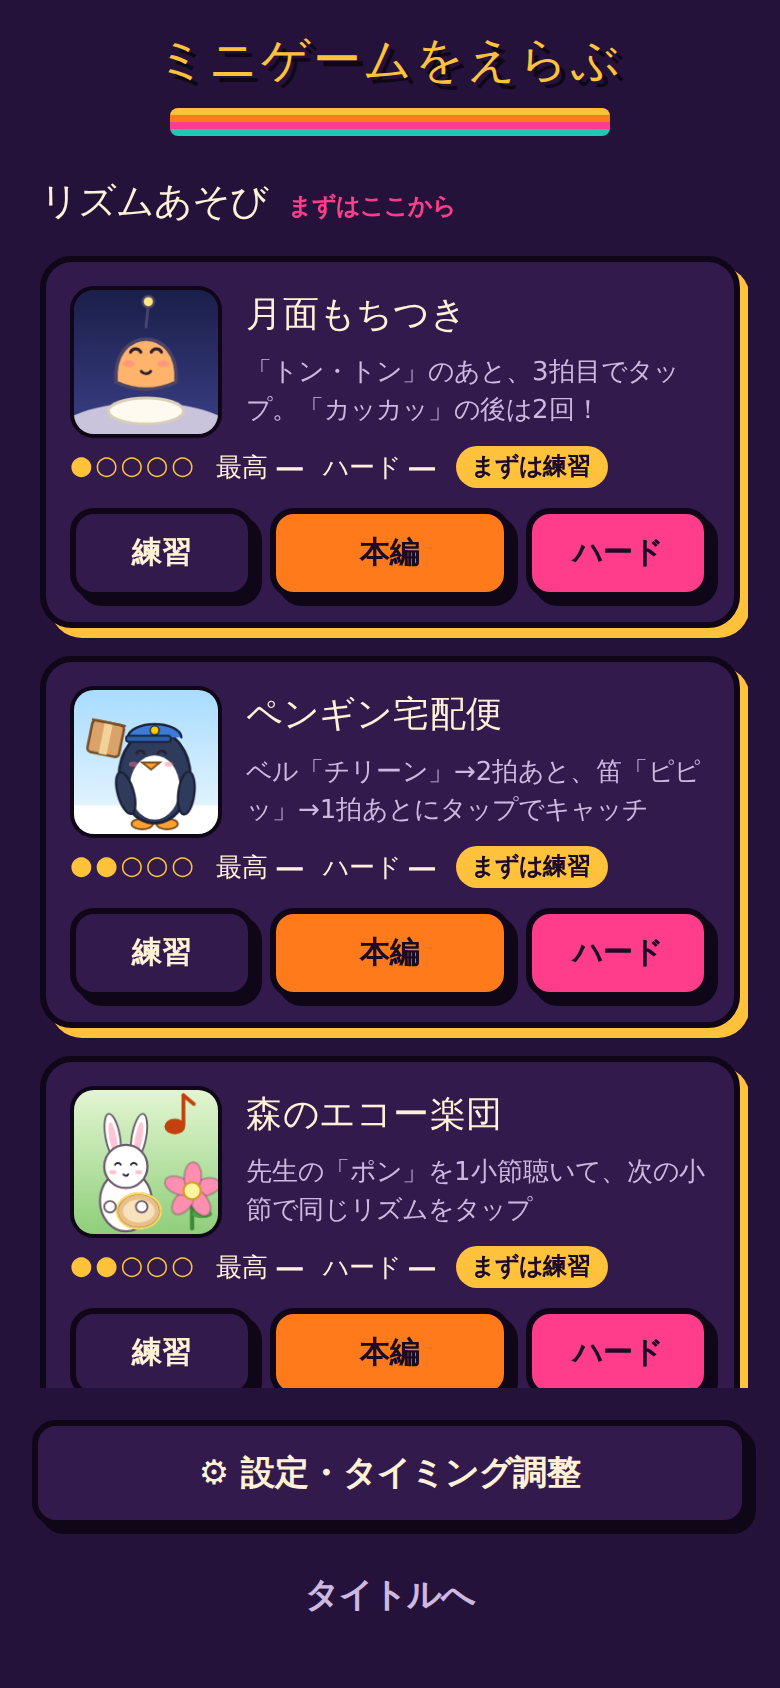
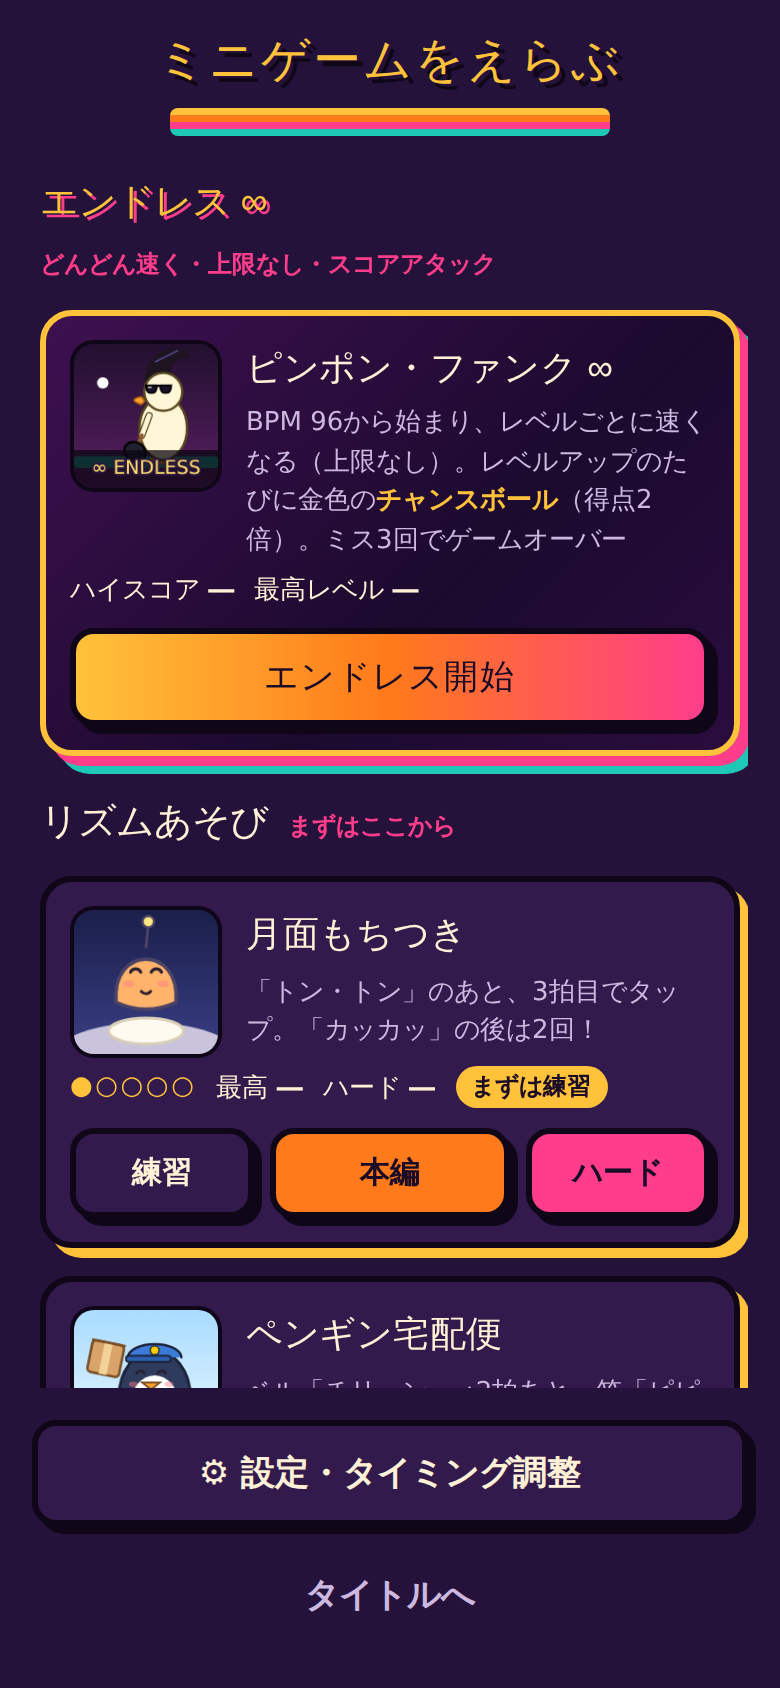
エンドレスのテスト結果・画面・音量測定を記録（155項目合格）
Claude-Session: https://claude.ai/code/session_014SXjRgvfQsSou3e7C8eesR

diff --git a/rhythm-game/docs/TESTING.md b/rhythm-game/docs/TESTING.md
@@ -2,7 +2,7 @@
 
 ## 自動テスト（`tests/run-tests.cjs`）
 - 実行環境：Chromium（Playwright のヘッドレス版）、Linux。端末は 390×844 のタッチ対応として再現
-- 結果：**146項目すべて合格**（15ミニゲーム × 本編・ハード・練習。詳細：`test-results.json`、`test-log.txt`）
+- 結果：**155項目すべて合格**（15ミニゲーム × 本編・ハード・練習、エンドレス9項目。詳細：`test-results.json`、`test-log.txt`）
 
 | 確認内容 | 結果 |
 |---|---|
@@ -21,8 +21,13 @@
 | メニューBGM（`tests/menu-music.cjs`）：タイトル（許可前）は無音、選択・設定で流れる、画面を行き来しても1つだけ、プレイ中は止まり、戻ると再開 | 合格 |
 | 声の合図：母音の頭が拍ちょうどになる時刻に予約されている | 合格 |
 | 再読み込み後も補正値と最高スコアが残る | 合格 |
+| エンドレス：Lv1〜3をぴったり、Lv4から入力なし → テンポ 96→108 BPM、チャンスボール 2/3、得点が計算式と一致（チャンスは2倍）、ミス3回でゲームオーバー（チャンスの見送りはライフ減なし）、Lv4到達 | 合格 |
+| エンドレス：テンポが変わっても予約遅れ0件・時計の誤差 3.6ms | 合格 |
+| エンドレス：ハイスコア・最高レベルの保存、「もう一度」でエンドレスを再開 | 合格 |
+| エンドレス：レベル25（BPM 240）まで譜面の検証OK、全パターン（X1・X2・チャンス・レベルアップ含む）が登場 | 合格 |
 
 ### 途中で見つけて直したこと
+- **エンドレスで合図がBGMに埋もれた**：スマッシュ「パシッ」の最小が +0.5dB、ピーク 1.08 でした。エンドレスでは合図の拍のキック・スネアを常に抜くようにしました。いまは pong +10.7／smash +8.0／lob +14.9／chance +15.3dB 以上、ピーク 0.94 です。
 - **DJのビルドアップで音が大きくなりすぎた**：ライザー・スネア連打・「ワン！」が重なってピーク1.11でした。ライザーとスネアを下げ、「スリー」とぶつかっていたキックを抜きました（ピーク1.04。最後の数％は最終段のソフトクリップで処理）。
 - 花火の打ち上げ玉が小さくて見えにくかったので、光る頭と長い尾を付け、開く直前に輪が光るようにしました。
 - **射的の合図が祭り太鼓に埋もれていた**：カン「カンッ」が +2.7dB、風船「プ」の最小が −3.6dB でした。合図の拍で抜く打楽器に太鼓・鉦・タンバリンを加え、合図を上げました。いまはそれぞれ +11.5dB と +5.6dB 以上です。
@@ -53,6 +58,7 @@
 | フロア爆上げDJ | 1.041 | call（シンセの呼びかけ）14.9／13.5。ビルドアップは小さく始まって大きくなる音なので測定対象外 |
 | しめの一音ピアノ | 0.860 | note（ピアノの音階）21.3／12.9 |
 | 夜空の花火師 | 0.782 | launch（ヒュ〜）11.9／11.1 |
+| ピンポン・ファンク ∞（エンドレス Lv1〜5） | 0.942 | pong 12.0／10.7、smash 15.4／8.0、lob 15.9／14.9、chance 16.1／15.3、pok 13.2／3.4 |
 | パイ投げ道場 | 0.883 | throw 11.5／11.1、quick 9.6／7.8、triple 10.5／10.3、boomerang 12.3／12.0 |
 
 ピークが1.0をわずかに超える瞬間（卓球のセクション頭）は、最終段のソフトクリップ（0.8を超えた分だけをなめらかに抑える）で処理しています。台の「ポッ」の最小値（−2.5dB）は、スマッシュ直後の1か所です。打つタイミングは「パシッ」で分かります。
@@ -60,7 +66,7 @@
 
 ## 画面（`tests/screens.cjs`）
 `screen_*.png`（ゲームの場面）、`ui_*.png`（メニュー類）、`size_*.png`（360×640／844×390 横向き／1280×720）。
-`overview_scenes.png` は主な場面をまとめた一覧です。
+`overview_scenes.png` は主な場面をまとめた一覧です。エンドレスは `screen_endless_*.png`（レベルアップ・チャンスボール・フィーバー・残りライフ1・ゲームオーバー）と `ui_result_endless.png`。
 
 ## 未確認
 - iPhone・Android の実機での操作感（タップの手応え、音の遅れ、自動調整の値）
